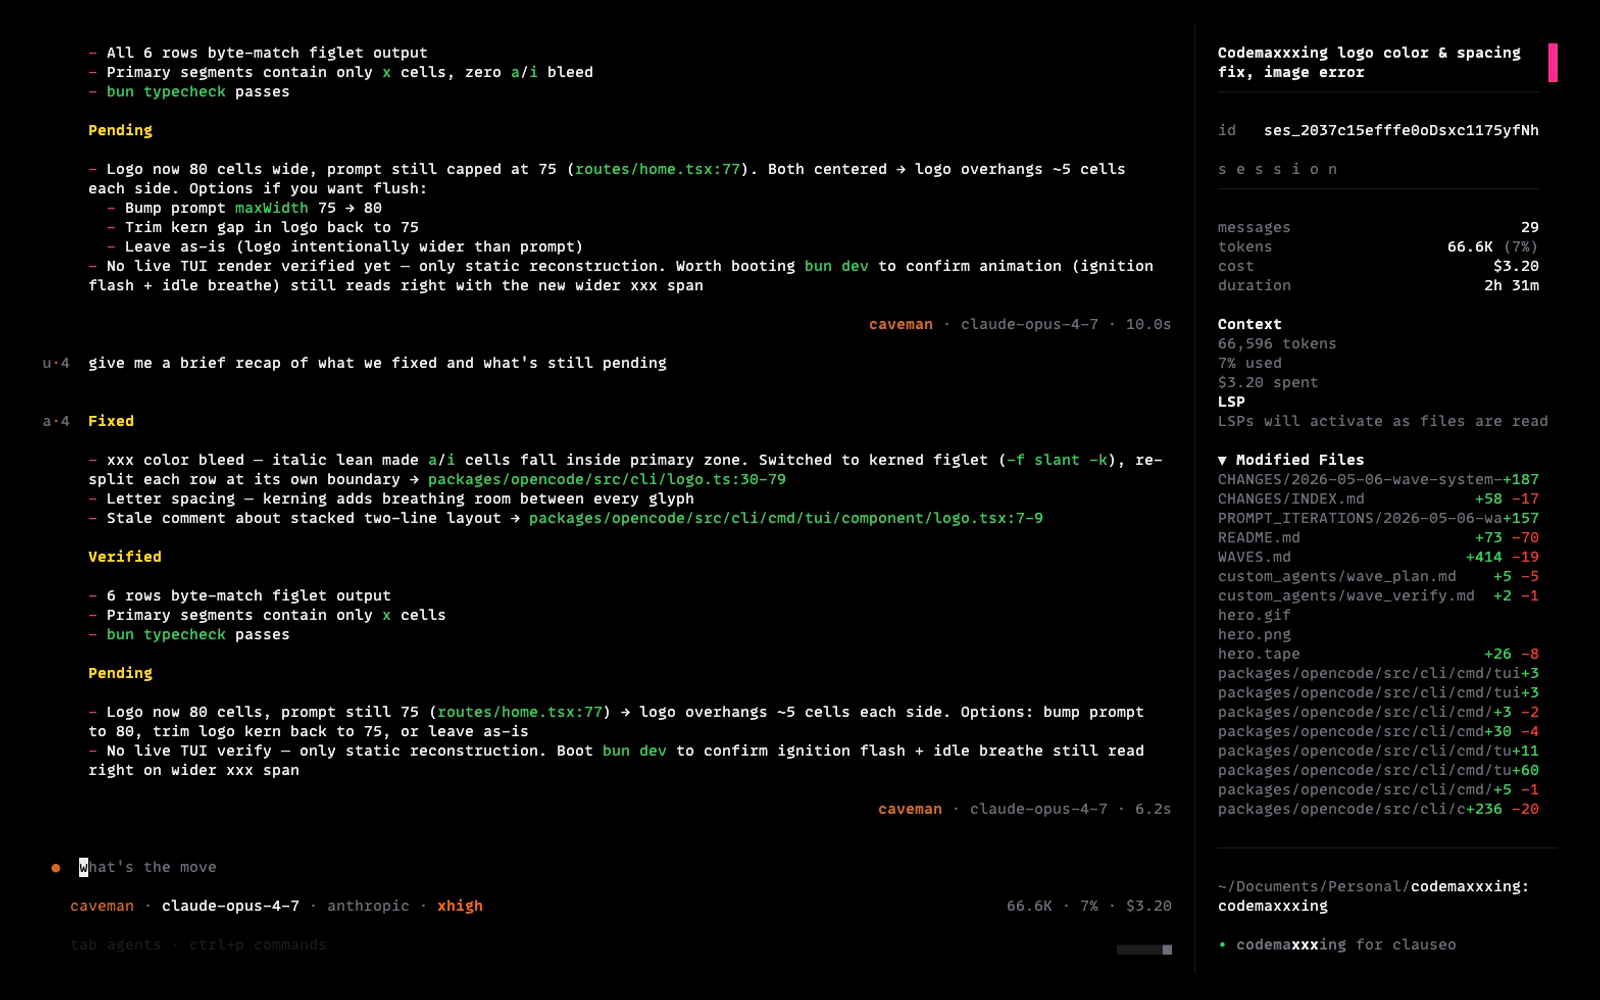
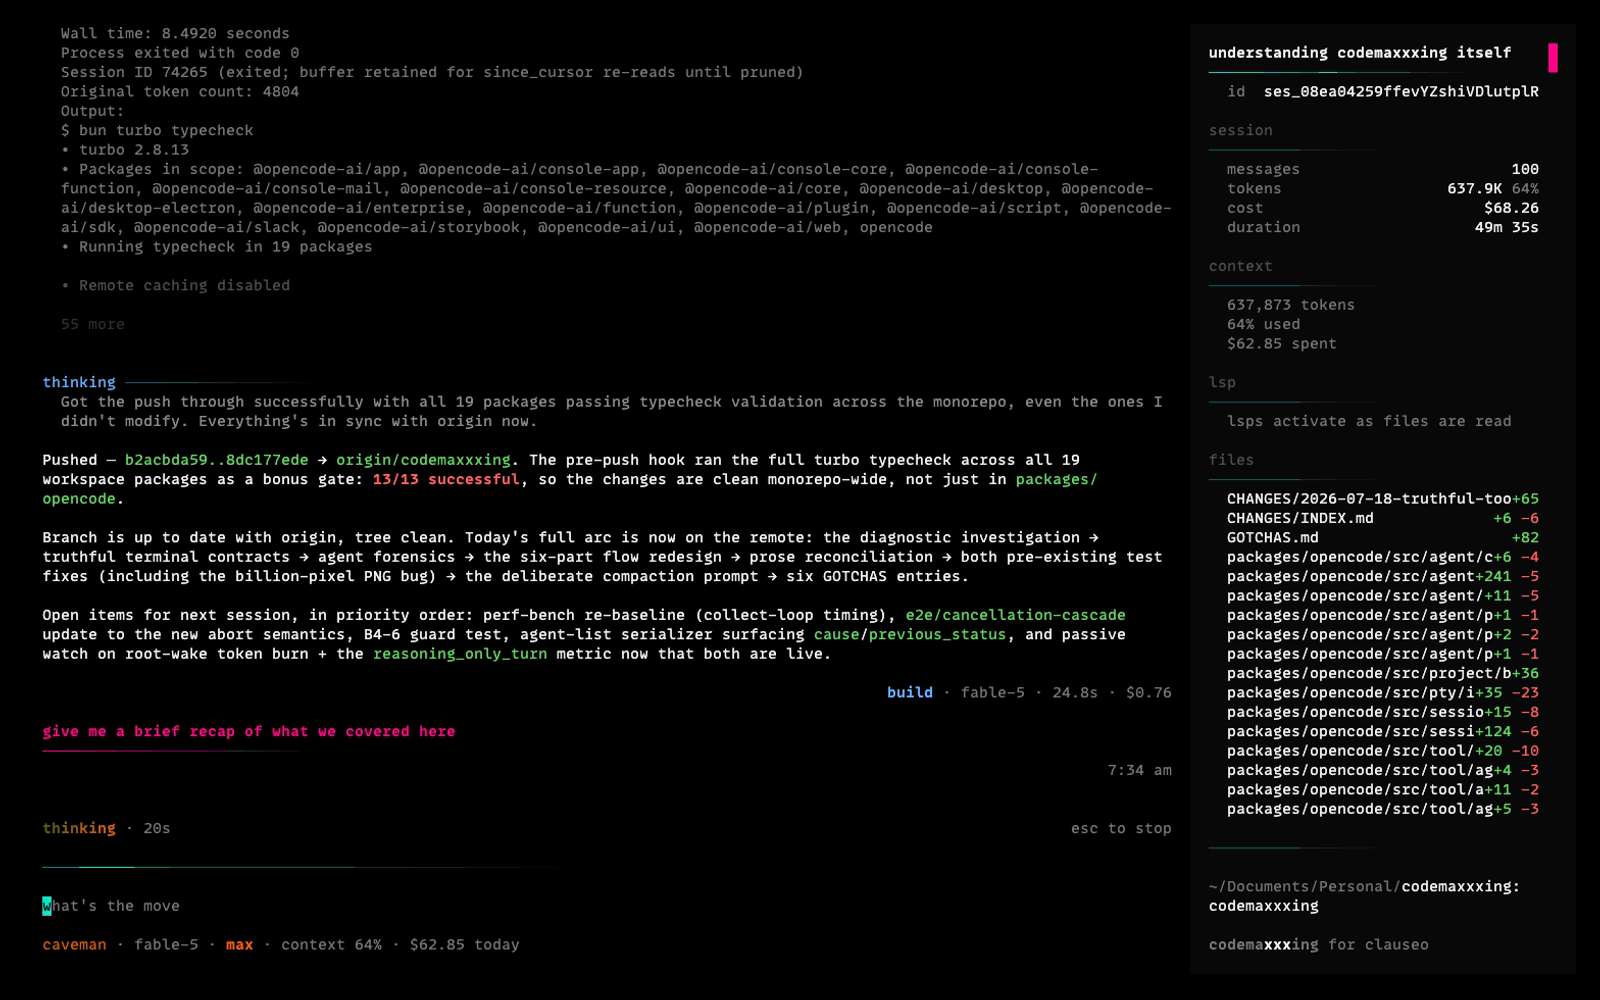
docs: reconcile README with afterglow + spawn model semantics; re-shoot hero and screenshot stills

diff --git a/README.md b/README.md
@@ -11,7 +11,7 @@ what I wanted that the upstream defaults didn't give:
 - a way to drive multi-hour, multi-session tasks without sitting on the keyboard. a finite state machine on disk with auto-retry, conversational user pauses, and a full git audit trail. → [**wave runner**](#wave-runner).
 - subagents that behave like real actors instead of fire-and-forget RPC calls — concurrent, addressable, supervisable, with mailboxes, links, bounded queues, and per-agent_type behavior contracts. erlang/otp/akka conceptual lineage adapted for LLM constraints. → [**multi-agent actor system**](#multi-agent-architecture).
 - shell tools that hold state between calls so REPLs keep their imports, dev servers stay running while I observe their logs, file watchers report new diagnostics as edits land. → [**persistent processes**](#persistent-processes).
-- a TUI that's readable on the setup I actually live in (mosh + tmux + iPad over hotel wifi on a long flight). lighter chrome, more density, a wave campaign dashboard so the FSM is observable. → [**drafting-table TUI**](#tui).
+- a TUI that's readable on the setup I actually live in (mosh + tmux + iPad over hotel wifi on a long flight). no borders anywhere, structure made of fades, information has temperature, a wave campaign dashboard so the FSM is observable. → [**afterglow TUI**](#tui).
 - system prompts that don't over-engineer, don't moralise, distinguish questions from action requests, and parallelize aggressively. constantly reworked — nine iterations and counting, because the right prompt for Opus 4.6 isn't the right prompt for Opus 4.7. → [**rewritten prompts**](#prompts).
 
 the rest of the README walks through each one and how to install. there's a separate [WAVES.md](./WAVES.md) for the full wave-runner algorithm, [GOTCHAS.md](./GOTCHAS.md) for the sharp edges accumulated along the way, and per-campaign engineering references in [specs/](./specs/).
@@ -67,7 +67,7 @@ I replaced it with a real actor system. ten tools, all backed by an `AgentContro
 
 | Tool | What it does |
 |---|---|
-| `spawn_agent` | fire-and-keep-running. returns immediately with the child's canonical path. parent keeps working. accepts `on_failure: respawn / escalate / ignore / kill_pool` and `pool_strategy: one_for_one / one_for_all / rest_for_one`. |
+| `spawn_agent` | fire-and-keep-running. returns immediately with the child's canonical path. parent keeps working. accepts `on_failure: respawn / escalate / ignore / kill_pool` and `pool_strategy: one_for_one / one_for_all / rest_for_one`. `model` overrides the child's model as `provider/model`, `reasoning_effort` picks a variant — both validated at spawn time (unknown model or invalid variant fails the call instead of silently spawning on the wrong model); unset means the child runs its agent type's configured model falling back to the global default, never the parent's. `files` attaches file contents to the child's first message; `fork_turns` controls inherited history (`all` / `none` / last-N). |
 | `close_agent` | release a slot. cascades through descendants. `target` is optional (self-close); returns `already_terminated` (success — child exited before close arrived) vs `path_invalid` (model bug — wrong path). |
 
 **messaging**
@@ -200,27 +200,42 @@ engineering reference: [specs/replace-bash-task.md](./specs/replace-bash-task.md
 
 ## tui
 
-![codemaxxxing](./screenshot.gif)
+![codemaxxxing](./screenshot.png)
 
-lighter, more information-dense chrome. shaped for the setup I actually live in: mosh + tmux over hotel wifi on an iPad, sometimes splitscreen with notes or a browser, sometimes a 60-column window because the keyboard takes half the screen. every wasted line is a line of session history I can't see. personal preference, not a feature — but the constraints drove the shape.
+shaped for the setup I actually live in: mosh + tmux over hotel wifi on an iPad, sometimes splitscreen with notes or a browser, sometimes a 60-column window because the keyboard takes half the screen. every wasted line is a line of session history I can't see. personal preference, not a feature — but the constraints drove the shape.
 
-most of it is subtraction. panels lose their backgrounds and become single-cell left rules. message blocks lose their closing rules. tool calls collapse to `label · target · meta` instead of labeled separator lines. speaker identity moves to a `u·1` / `a·1` mark in the left margin. sidebar gains a small live stats block (messages, tokens, cost, duration). prompt has a state-aware `▎` accent and a two-row status (identity + ephemeral hints) with a small usage meter.
+the current direction is **afterglow**: information has temperature. live things glow, finished things cool to embers, failures burn. no borders, boxes, badges, chips, meters, or spinner glyphs anywhere — structure is made of fades: rules dissolve, diff washes bleed out, collapsed output sinks into the dark. the cursor `█` is the only block glyph and the brightest thing on screen, except when an ask fires — one glow at a time: the busy line cools to `· paused` and the ask takes the heat. all chrome is lowercase. status is words-in-color, never glyphs — context pressure reads `84% full · compact soon` in warning past 70%, `compact now` in error past 90%, instead of a meter.
 
-logo is a `slant`-figlet wordmark with a subtle ignition to idle animation. prompt spinner is a turbo spool (two braille turbines plus a boost gauge) instead of the upstream V12. sidebar footer reads `codema(xxx)ing for clauseo`. home footer `by clauseo`. OSC terminal title `codemaxxxing` (home) or `cmx | <session>` (sessions).
+what the surfaces look like now:
 
-the recording above shows codemaxxxing in toybox-noir theme with the caveman agent active, mid-response. the spinner is the turbo spool.
+- my words render bold in `borderActive` with a dissolving rule under them; speaker gutter marks are gone
+- quiet/loud tool hierarchy: read/grep/glob coalesce into one dim `·`-joined line; edit/run/write/asks are objects — colored header word, bold title, right-edge whisper (verdict + duration), indented body, air above and below
+- diffs render as bleed washes (row bg strongest at the left, gone by the right edge; transparent themes skip the wash), collapsing past 12 changed rows into a sunk "n more" whisper
+- the busy state is a kinetic sentence — a gradient whose tail glows hotter than its head, colored by agent identity, with a traveling pulse as the single animated line the perf budget allows. static gradients doing the work of animation, because mosh
+- the return glance: coming back to a finished session, `done — changed token.ts · 31s · $0.04` sits right above the cursor — verdict word bold in success, the rest a dim whisper. never scroll to learn what happened
+- the bottom edge is sacred: fade rule → cursor → one status whisper (`agent · model · context words · cost today`)
+- home is a letter-spaced gradient wordmark over a dissolving rule (replaces the figlet ignition on purpose — static paint), one status sentence ("saturday. fable-5 is up."), recent session rows with identity-hashed colors and age whispers, `type to start`
+- dialogs are borderless floating panels — panel fill when the theme has one, fades and air inside, fade-rule headers; the command palette rides the same list template
+- the sidebar keeps its live stats block (messages, tokens, cost, duration) and gains sunk lowercase section headers with short dissolving rules; no left border
+- the subagent footer strip is per-child: identity-tinted rule, `agent · n of m · status word` (running / waiting / completed / errored), a facts whisper (model — including per-spawn overrides — variant, context, cost), parent/prev/next navigation at any depth
+
+the design is theme-token pure — zero hex literals in the ported surfaces, every color a token or an interpolation between two tokens. a gauntlet test renders every glow device across all bundled + user themes × dark/light × 100 and 64 cols, checks exact rule geometry, and asserts transparent themes (lucent-orng) degrade to fg-only. narrow-first: every surface holds at 64 cols.
+
+the design lives as a deck of frames in `design/deck/` — frames are the source of truth, the TUI is the port. the loop: edit the frame, `bun design/deck/verify.ts` (geometry + zero-hex across every theme/mode/width), `bun design/deck/render-html.ts`, screenshot, look, iterate, then port. engineering reference: [specs/tui-redesign.md](./specs/tui-redesign.md).
+
+the still above shows codemaxxxing in toybox-noir with the caveman agent active, mid-response — history cooling above the live edge. reproduce it with `vhs screenshot.tape`.
+
+sidebar footer still reads `codema(xxx)ing for clauseo`. home footer `by clauseo`. OSC terminal title `codemaxxxing` (home) or `cmx | <session>` (sessions).
 
 also:
 
 - collapsible web search and code search result displays
 - semantic rendering of multi-agent v2 tool calls (spawn / send / wait / list show as proper components, not just JSON blobs)
-- cross-agent mailbox messages render distinct from regular user input, prefixed with `[from <author_path>]`
-- per-session subagent status strip in the footer when concurrent siblings are live (4 fields: total, running, completed, errored)
-- subagent navigation works at any depth, not just direct children of root
-- **flush queued messages on demand.** hit Enter while a turn is running, the message lands in the session log with a ` queued ` badge as today. press `<leader> ⏎` (default `ctrl+x` then `return`) to interrupt the current model stream and process the whole queue immediately. partial assistant text and in-flight tool calls are preserved on the abort so the model sees what it was in the middle of doing, then the queued messages, then responds. footer hint reads `esc interrupt · <leader> ⏎ flush N queued` when applicable. configurable via `keybinds.session_flush_queued`. see [flush-queued change notes](./CHANGES/2026-05-18-flush-queued.md).
+- cross-agent mailbox messages render distinct from regular user input, prefixed with `[from <author_path>]`, click-to-expand
+- **flush queued messages on demand.** hit Enter while a turn is running, the message lands in the session log with a ` queued ` badge as today. press `<leader> ⏎` (default `ctrl+x` then `return`) to interrupt the current model stream and process the whole queue immediately. partial assistant text and in-flight tool calls are preserved on the abort so the model sees what it was in the middle of doing, then the queued messages, then responds. while a turn is running the busy line's whisper appends `· <leader> ⏎ flush N queued`, with `esc to stop` right-aligned on the same row. configurable via `keybinds.session_flush_queued`. see [flush-queued change notes](./CHANGES/2026-05-18-flush-queued.md).
 - `/wave` slash command for the wave campaign dashboard
 - `/wave-plan`, `/wave-run`, `/wave-pause`, `/wave-stop`, `/wave-next` slash commands for campaign control
-- wave footer pill on home shows active campaign + status when one exists
+- active campaign status on the home footer as words-in-color (`wave 3/7`, `waves done`)
 
 ## prompts
 
